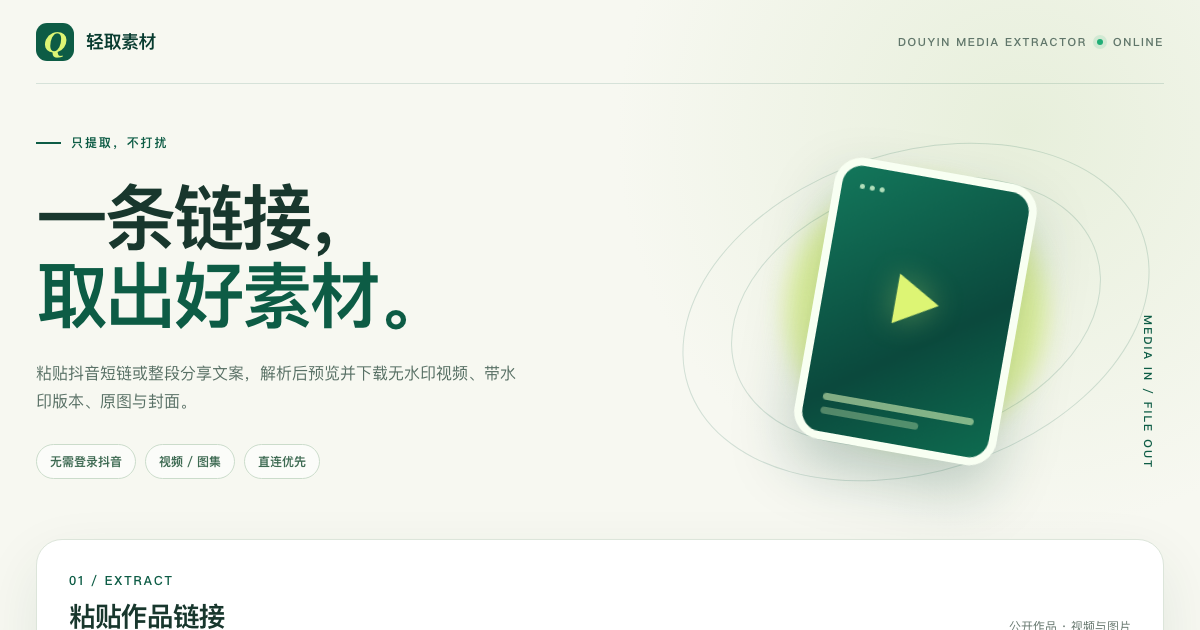
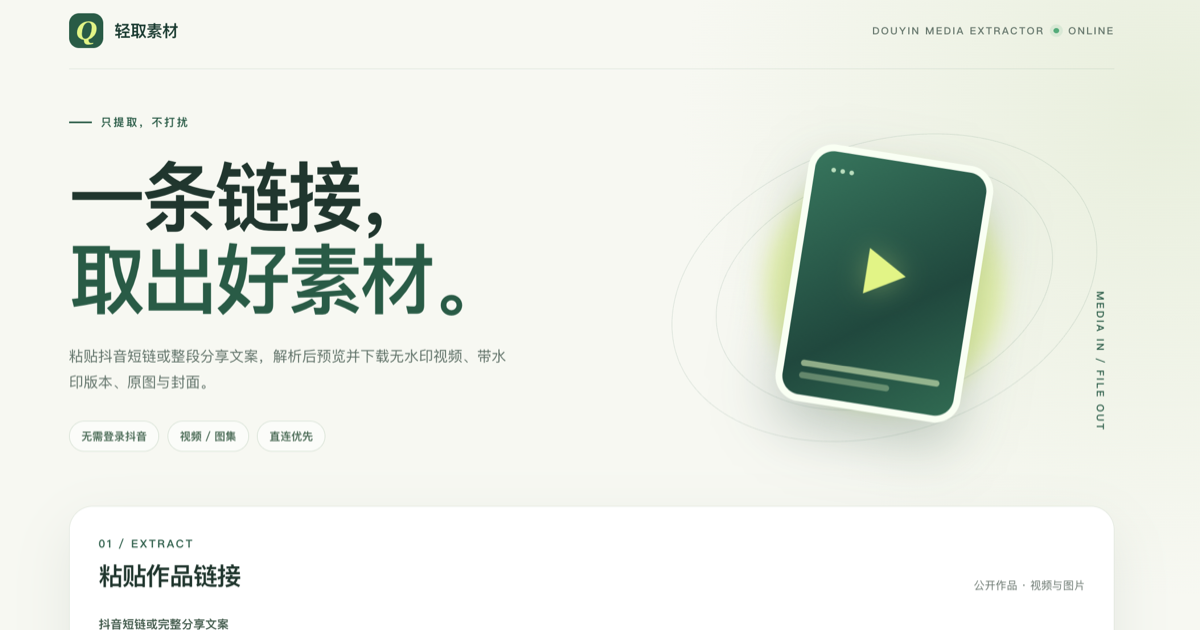
Update homepage and social preview image

diff --git a/static/index.html b/static/index.html
@@ -12,8 +12,8 @@
     <meta property="og:title" content="轻取素材 | 抖音视频、原图与封面提取">
     <meta property="og:description" content="免登录解析公开抖音作品，优先直连下载无水印视频、带水印版本、原图与封面。">
     <meta property="og:url" content="https://douyin.earlxu.online/">
-    <meta property="og:image" content="https://douyin.earlxu.online/static/og-image.png?v=20261106-2">
-    <meta property="og:image:secure_url" content="https://douyin.earlxu.online/static/og-image.png?v=20261106-2">
+    <meta property="og:image" content="https://douyin.earlxu.online/static/og-image.png?v=20261106-3">
+    <meta property="og:image:secure_url" content="https://douyin.earlxu.online/static/og-image.png?v=20261106-3">
     <meta property="og:image:type" content="image/png">
     <meta property="og:image:width" content="1200">
     <meta property="og:image:height" content="630">
@@ -21,8 +21,8 @@
     <meta name="twitter:card" content="summary_large_image">
     <meta name="twitter:title" content="轻取素材 | 抖音视频、原图与封面提取">
     <meta name="twitter:description" content="免登录解析公开抖音作品，优先直连下载无水印视频、带水印版本、原图与封面。">
-    <meta name="twitter:image" content="https://douyin.earlxu.online/static/og-image.png?v=20261106-2">
-    <link rel="image_src" href="https://douyin.earlxu.online/static/og-image.png?v=20261106-2">
+    <meta name="twitter:image" content="https://douyin.earlxu.online/static/og-image.png?v=20261106-3">
+    <link rel="image_src" href="https://douyin.earlxu.online/static/og-image.png?v=20261106-3">
     <title>轻取素材 | 抖音视频、原图与封面提取</title>
     <link rel="icon" type="image/svg+xml" href="/static/favicon.svg">
     <link rel="stylesheet" href="/static/style.css?v=20261106-2">

diff --git a/tests/test_app.py b/tests/test_app.py
@@ -23,7 +23,7 @@ class AppTests(unittest.IsolatedAsyncioTestCase):
         self.assertIn("轻取素材", home.text)
         self.assertIn("EARL XU", home.text)
         self.assertIn('property="og:image"', home.text)
-        self.assertIn("https://douyin.earlxu.online/static/og-image.png?v=20261106-2", home.text)
+        self.assertIn("https://douyin.earlxu.online/static/og-image.png?v=20261106-3", home.text)
         self.assertIn('href="/static/style.css?v=20261106-2"', home.text)
         self.assertIn('src="/static/app.js?v=20261106-2"', home.text)
         self.assertIn('href="/static/favicon.svg"', home.text)
